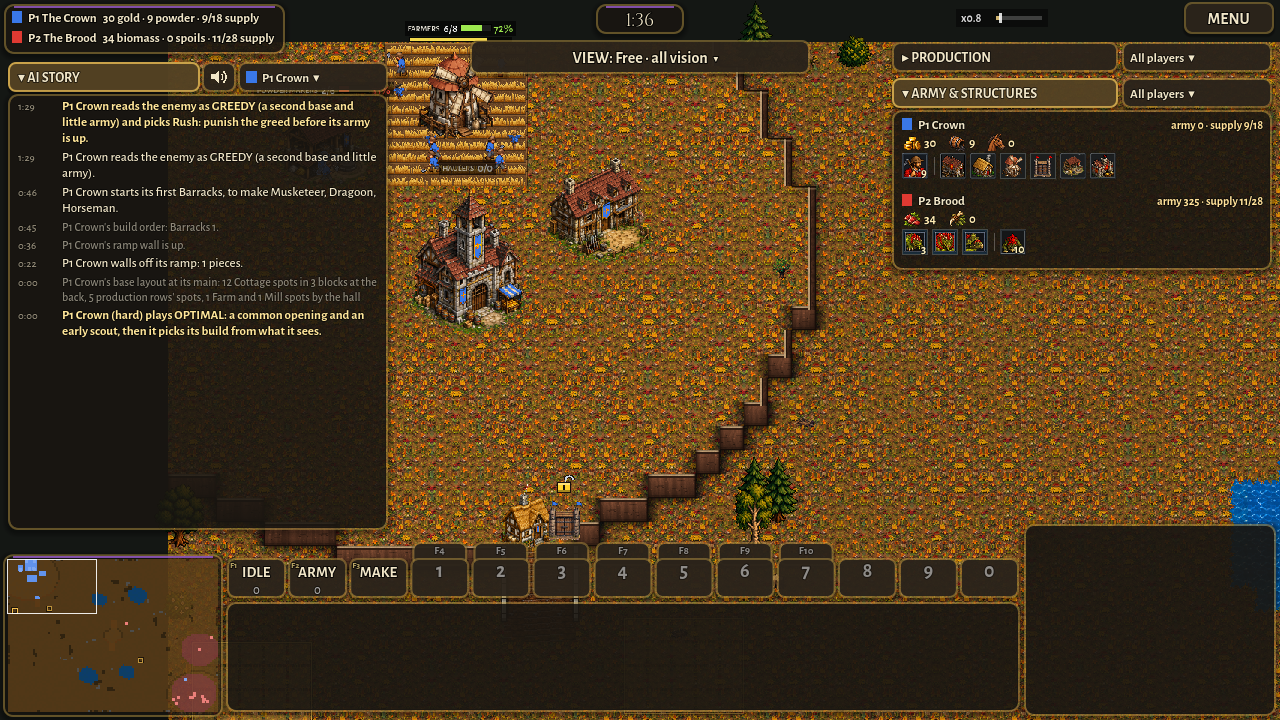
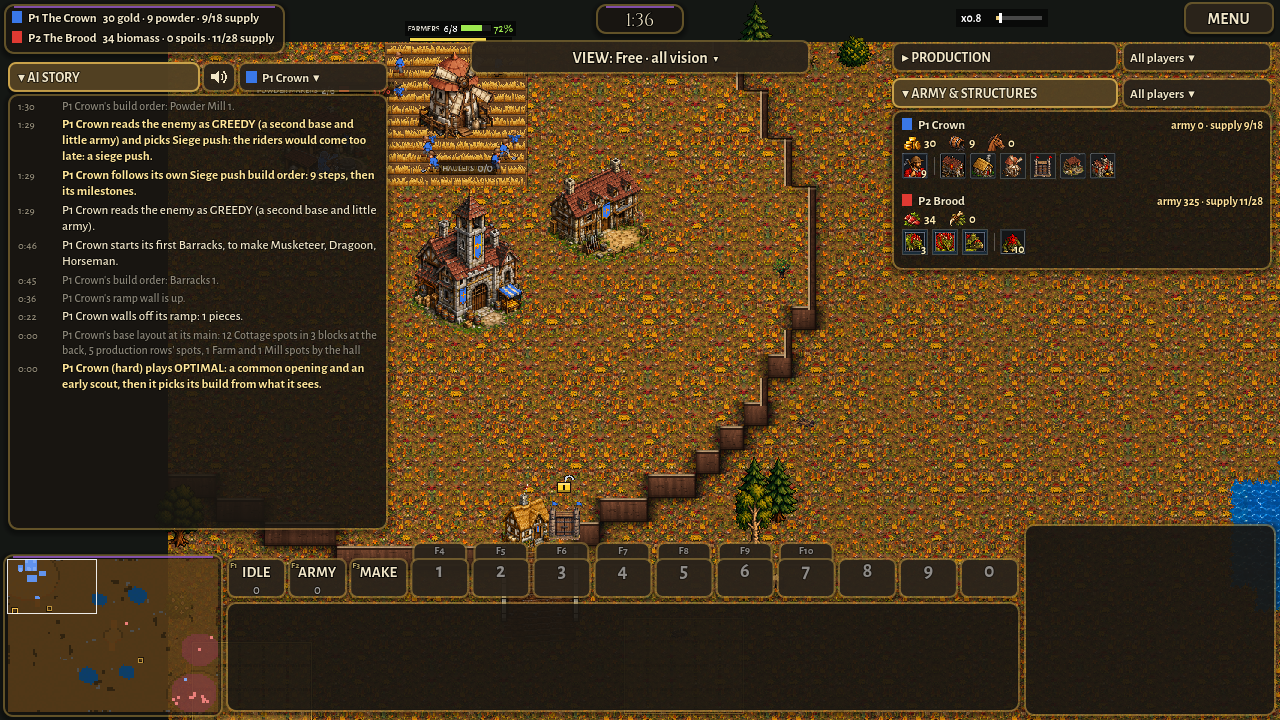
ai-optimal: a pack of fast soldiers before 4:30 is still told as a sign of a rush; pictures redone (the Siege push on the read, the lean's Horseman rush and its survival switch); the report's table tool
Claude-Session: https://claude.ai/code/session_01NtmEZhP1uA8k4DLQ7BYfMz

Changed region(s): [[0.0, 0.1222, 0.3125, 0.55], [0.375, 0.1833, 0.4062, 0.2444], [0.3125, 0.1833, 0.3438, 0.2139]]

diff --git a/tools/study/ai_optimal_report.py b/tools/study/ai_optimal_report.py
@@ -1,0 +1,78 @@
+#!/usr/bin/env python3
+"""The report's table (docs/ai_optimal.md section 5): OPTIMAL's coached games next to the same games played by Balanced
+(tools/study/ai_optimal_games.py run OUT and run BASE --plan balanced).
+    python3 tools/study/ai_optimal_report.py OUT BASE"""
+import os, re, sys
+
+def load(d):
+    out = {}
+    for x in sorted(os.listdir(d)):
+        rp = os.path.join(d, x, "result.txt")
+        if not os.path.exists(rp):
+            continue
+        txt = open(rp).read()
+        m = re.match(r"map (\S+) seed \d+: P1 (\S+) (\S+) v P2 (\S+) (\S+)", txt.split("\n")[0])
+        if not m:
+            continue
+        mp, a, sa, b, sb = m.groups()
+        last = {}
+        for l in txt.split("\n"):
+            mm = re.match(r"(\d+:\d+) P(\d) \S+ \S+ \((\S+)\): income (\d+) \| workers (\d+) \| army (\d+) \| halls (\d+)", l)
+            if mm:
+                last[int(mm.group(2))] = (int(mm.group(4)), int(mm.group(6)), int(mm.group(7)))
+        e = re.search(r"end (\S+) winner (\S+)", txt)
+        w = e.group(2) if e else "?"
+        if w == "none" and 1 in last and 2 in last:
+            s1 = last[1][0] + 2 * last[1][1]
+            s2 = last[2][0] + 2 * last[2][1]
+            w = "ahead" if s1 > s2 * 1.1 else ("behind" if s2 > s1 * 1.1 else "even")
+        elif w == "P1":
+            w = "WON"
+        elif w == "P2":
+            w = "LOST"
+        picks = []
+        for l in txt.split("\n"):
+            if l.startswith("P1 pick"):
+                p = l.split(" ")
+                why = l[l.find("(") + 1:l.rfind(")")]
+                picks.append("%s %s->%s" % (p[2], p[4], p[6]))
+        out[(a, b, sb, mp)] = {"w": w, "end": e.group(1) if e else "?", "l": last, "picks": picks}
+    return out
+
+def score(r):
+    return {"WON": 2, "ahead": 1, "even": 0, "behind": -1, "LOST": -2}.get(r["w"], 0)
+
+if __name__ == "__main__":
+    opt = load(sys.argv[1])
+    base = load(sys.argv[2]) if len(sys.argv) > 2 else {}
+    rows = ["| OPTIMAL | v | its plan | map | OPTIMAL: result, earned / foe, army / foe at the end | its picks (clock read->build) | Balanced in the same seat |",
+            "|---|---|---|---|---|---|---|"]
+    tot = {}
+    for k in sorted(opt):
+        a, b, sb, mp = k
+        r = opt[k]
+        l = r["l"]
+        s = "%s %s, %s / %s, %s / %s" % (r["w"], r["end"], l.get(1, ("?",))[0], l.get(2, ("?",))[0], l.get(1, ("?", "?"))[1], l.get(2, ("?", "?"))[1])
+        bs = "-"
+        if k in base:
+            br = base[k]
+            bl = br["l"]
+            bs = "%s %s, %s / %s, %s / %s" % (br["w"], br["end"], bl.get(1, ("?",))[0], bl.get(2, ("?",))[0], bl.get(1, ("?", "?"))[1], bl.get(2, ("?", "?"))[1])
+            t = tot.setdefault(a, [0, 0, 0, 0])
+            t[0] += score(r)
+            t[1] += score(br)
+            t[2] += 1
+        t2 = tot.setdefault(a, [0, 0, 0, 0])
+        t2[3] += 1
+        rows.append("| %s | %s | %s | %s | %s | %s | %s |" % (a, b, sb, mp, s, "; ".join(r["picks"]), bs))
+    rows.append("")
+    for a, t in tot.items():
+        n = sum(1 for k in opt if k[0] == a)
+        won = sum(1 for k in opt if k[0] == a and opt[k]["w"] in ("WON", "ahead"))
+        lost = sum(1 for k in opt if k[0] == a and opt[k]["w"] in ("LOST", "behind"))
+        line = "- %s OPTIMAL: won or ahead in %d of %d, lost or behind in %d" % (a, won, n, lost)
+        if t[2]:
+            bw = sum(1 for k in base if k[0] == a and k in opt and base[k]["w"] in ("WON", "ahead"))
+            line += "; Balanced in the same %d games: won or ahead in %d (score %+d for OPTIMAL against %+d for Balanced: won 2, ahead 1, even 0, behind -1, lost -2)" % (t[2], bw, t[0], t[1])
+        rows.append(line)
+    print("\n".join(rows))

diff --git a/docs/ai_optimal.md b/docs/ai_optimal.md
@@ -142,7 +142,25 @@ RESULTS_HERE
   picks and 100 leans) and does against a greedy Brood.
 - `tools/test_ai_scout.gd`: case 4 rewritten to the owner's rule (a walled-in empty base reads GREEDY and the Economy
   plan races it; a scout killed early reads UNKNOWN: no army, another scout soon).
-- TESTS_HERE
+- `tools/test_crown_build_order.gd` knows OPTIMAL's "pick" step; `tools/test_ai_wall_vs_rush.gd` takes `crown:optimal`.
+- The whole suite (`tools/test_ai_*`, `test_crown_*`, `test_clockwork_*`, `test_brood_*`: 53 scripts; the coaching tools
+  with `check:1`: test_clockwork_eco (also `rush:1`, `foe:crown`), test_clockwork_springer_timing, test_clockwork_owls,
+  test_clockwork_builds_a) was run on this branch, and every failing one again on origin/main (0.31.1) in a worktree:
+  - pass: all the others, among them test_ai_scout, test_ai_scout_threat, test_ai_scout_sentry, test_ai_scout_defence,
+    test_ai_wall_vs_rush, test_ai_optimal, test_ai_rush, test_ai_harass, test_ai_placement, test_brood_builds,
+    test_brood_layout, test_brood_spend, test_crown_balloon, test_crown_build_order, test_crown_dragoon_raid,
+    test_crown_farms, test_crown_hold, test_crown_siege, test_crown_v_brood, test_clockwork_eco check:1,
+    test_clockwork_springer_timing check:1, test_clockwork_builds_a check:1, test_i18n;
+  - failing on main the same way (not this job's): test_ai_crown_bank (1), test_ai_expand (2, the Clockwork's new hall),
+    test_ai_expand_wall (6 here, 7 on main), test_ai_round6 (7, the first hall spot at the natural), test_ai_rush_followup
+    (13), test_crown_owner_eco (1, the natural's ring by 6:30), test_brood_voices (Hatchlings have no voice);
+    test_brood_new_defence hangs in its Musketeers case at 5:17 on main too (killed by the 30-minute limit);
+  - load-dependent: test_ai_rush's "never supply-blocked for 20 s" read 21 s once with three games running (main the
+    same under the same load); alone it passes (0 s);
+  - test_clockwork_owls check:1 on its default seed 11: the first Owl sortie "never" by 8:00 (the Owls were held at home
+    twice to defend against riders that cannot hit them; main 7:16). On seed 12 it passes here at 6:47 (main 7:18). The
+    games part early (the Crown's scout reads differently), so this one seed is the divergence, not a rule of the Owls.
+    Worth a look when merging.
 
 ## 7. Questions for the owner
 
